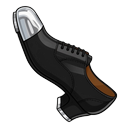
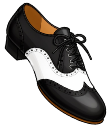
Update la la land cursor and fix cursor button hover ui

diff --git a/newtab.html b/newtab.html
@@ -3621,6 +3621,14 @@
       background: rgba(255, 255, 255, 0.09);
       color: rgba(255, 255, 255, 0.92);
     }
+    /* Button hover cursor: always use the normal pointer cursor (like google.com),
+       even when custom cursors are enabled for the page background. */
+    .search-btn:hover,
+    .search-mag:hover,
+    button:hover,
+    [role="button"]:hover {
+      cursor: pointer !important;
+    }
     .search-btn:hover { transform: translateY(-1px); filter: none; }
     .search-btn:active { transform: translateY(0); }
     .search-btn:focus-visible {
